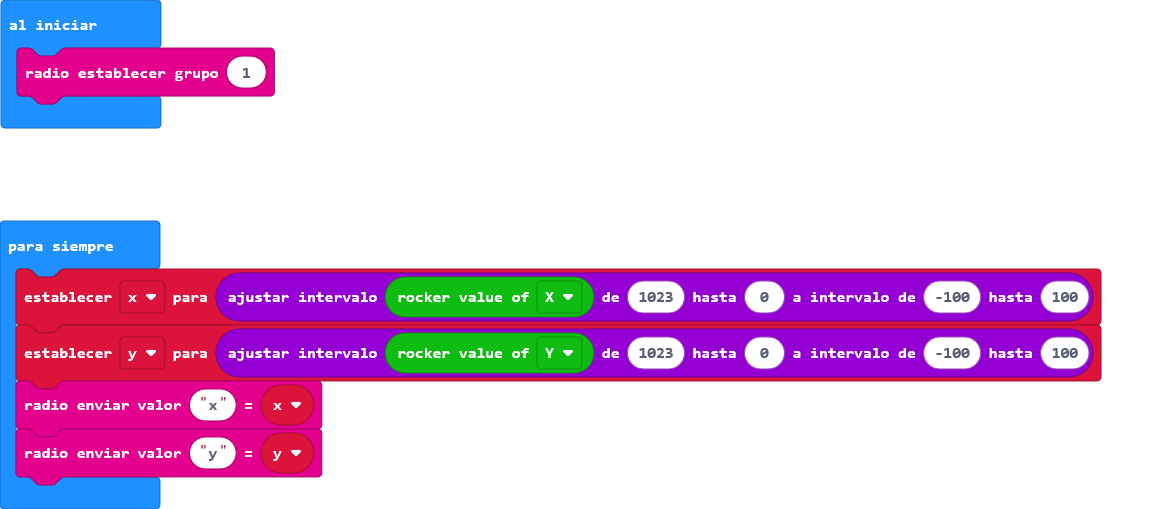
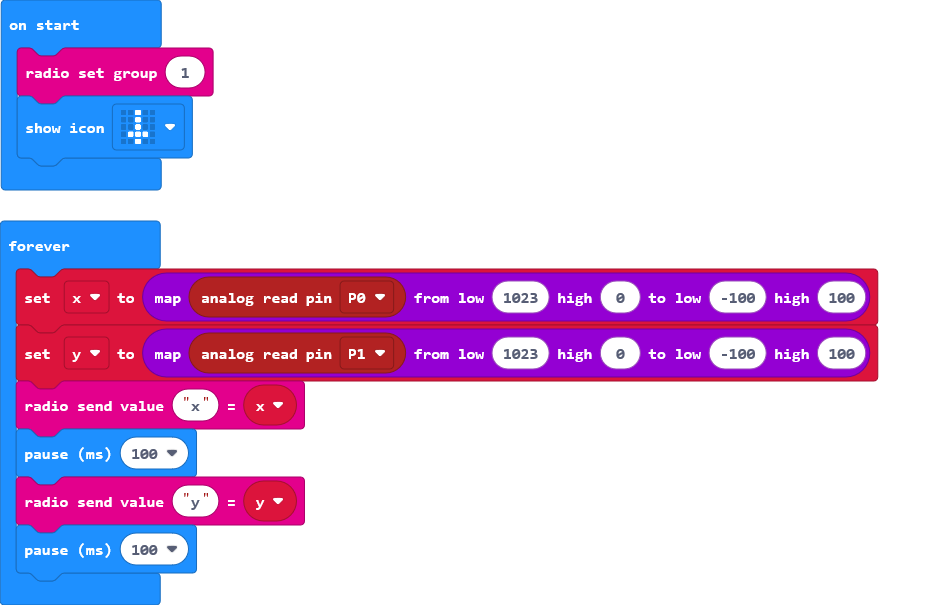
Update main.blocks, main.ts

diff --git a/main.ts b/main.ts
@@ -1,9 +1,12 @@
 let y = 0
 let x = 0
 radio.setGroup(1)
+basic.showIcon(IconNames.Sword)
 basic.forever(function () {
-    x = Math.map(joystickbit.getRockerValue(joystickbit.rockerType.X), 1023, 0, -100, 100)
-    y = Math.map(joystickbit.getRockerValue(joystickbit.rockerType.Y), 1023, 0, -100, 100)
+    x = Math.map(pins.analogReadPin(AnalogPin.P0), 1023, 0, -100, 100)
+    y = Math.map(pins.analogReadPin(AnalogPin.P1), 1023, 0, -100, 100)
     radio.sendValue("x", x)
+    basic.pause(100)
     radio.sendValue("y", y)
+    basic.pause(100)
 })
